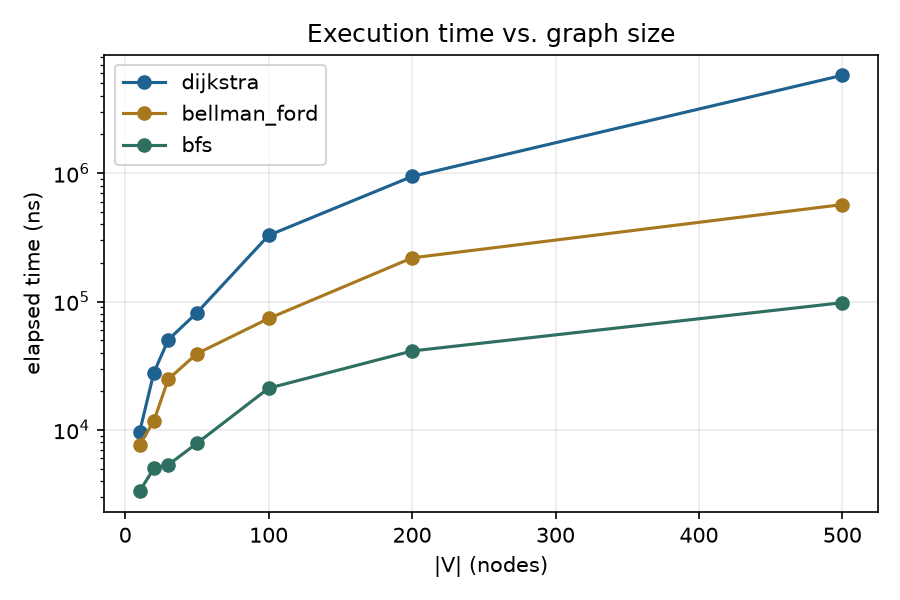
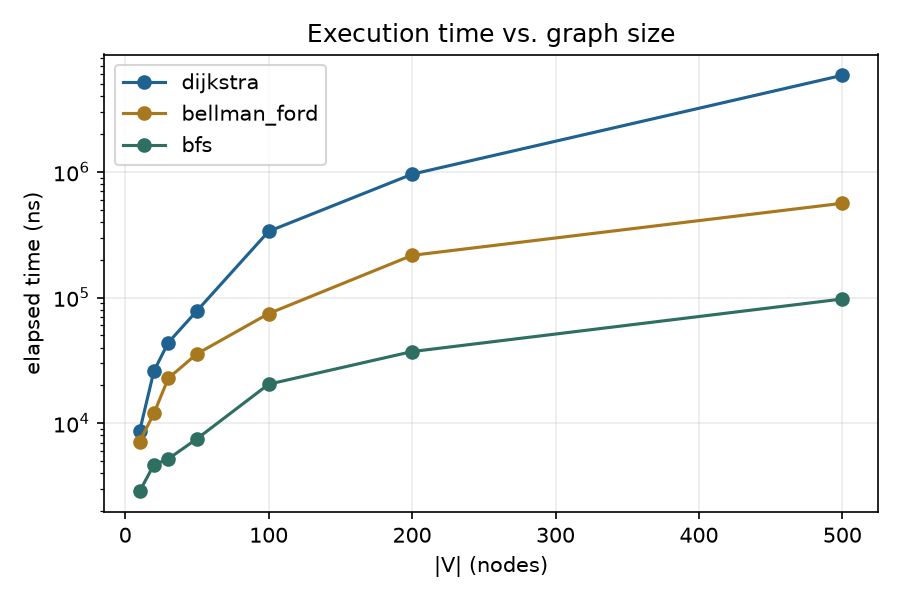
fix: pca_routing against the new (and better) RNP data post-merge
onos_topologies/iperf_experiment/rnp_topology/constants.py no longer
exists after merging origin/dash-experiments - it moved to
onos_topologies/topologies/configs/rnp.py, and the new file is a real
upgrade, not just a move: it adds RTT_MATRIX, genuine measured
round-trip time per link, which didn't exist before (the old file only
had capacity, forcing a 1/capacity proxy). load_rnp_topology() now
defaults to cost="rtt" - a real latency, not a proxy - with
cost="inverse_throughput" kept only for comparison against earlier
results. Node count changed 30 -> 27 (Araraquara/Joao Pessoa/Santarem
folded back into their states upstream).

Updated: graph.py's loader, the two tests that hardcoded the old
shape/cost-mode name, experiment.py's call site + comments, DESIGN.md,
rnp_instance.md (ES->AC no longer diverges under real RTT - kept as a
query specifically because it does NOT diverge, not cherry-picked;
RJ->RR still diverges, now on real measured latency: BFS's 3-hop path
is 47% slower, 144ms vs 98ms), report.tex and the slides outline.
diamond_topology's real per-link delays (prio_links in the new
onos_topologies/experiments/diamond/run.py) are unchanged, so
load_diamond_topology() needed no changes.

All 14 tests still pass; experiment.py re-run end to end; figures
regenerated.

diff --git a/pca_routing/graph.py b/pca_routing/graph.py
@@ -92,19 +92,39 @@ def load_diamond_topology() -> Graph:
     return g
 
 
-def load_rnp_topology(cost: str = "inverse_capacity") -> Graph:
-    """The real 30-node RNP backbone from
-    onos_topologies/iperf_experiment/rnp_topology/constants.py.
+def _parse_ms(raw: str) -> float:
+    return float(raw.replace("ms", ""))
+
+
+def _parse_mbit(raw: str) -> float:
+    return float(raw.replace("mbit", ""))
+
+
+def load_rnp_topology(cost: str = "rtt") -> Graph:
+    """The real 27-node RNP backbone from
+    onos_topologies/topologies/configs/rnp.py (moved there by the
+    chore/reorganize-onos-topologies work merged into dash-experiments -
+    the old onos_topologies/iperf_experiment/rnp_topology/constants.py this
+    used to read no longer exists). That reorganization is also a genuine
+    upgrade for this assignment: the old file only had a capacity matrix
+    (no per-link delay at all); this one adds a real RTT_MATRIX measured on
+    the actual RNP backbone, so "rtt" below is now an honest latency cost,
+    not the inverse-capacity proxy the first version of this loader had to
+    use instead.
 
     `cost`:
-      - "inverse_capacity" (default): weight = 1 / capacity_gbit. Favors fat
-        pipes. This is a COST, not a latency - rnp_topology ships no per-link
-        delay matrix, only capacity, so never call this "latency" in the report.
-      - "capacity": weight = capacity_gbit directly (useful only for display;
-        meaningless to minimize, since a bigger number here is a FASTER link).
+      - "rtt" (default): weight = measured round-trip time in ms
+        (RTT_MATRIX). A genuine latency - minimize this for "lowest-latency
+        path," the textbook framing of the problem.
+      - "throughput": weight = capacity in mbit directly (useful for
+        display; meaningless to minimize, since a bigger number here is a
+        FASTER link, not a worse one).
+      - "inverse_throughput": weight = 1 / capacity_mbit. Favors fat pipes -
+        kept for comparison against the first version of this loader/report
+        draft, which used this before RTT_MATRIX existed.
       - "hops": weight = 1.0 for every edge (same graph BFS already walks).
     """
-    mod = _load_constants("onos_topologies/iperf_experiment/rnp_topology/constants.py")
+    mod = _load_constants("onos_topologies/topologies/configs/rnp.py")
     names = [p[0].replace("PoP-", "") for p in mod.POPS]
     n = len(names)
     g = Graph()
@@ -112,14 +132,15 @@ def load_rnp_topology(cost: str = "inverse_capacity") -> Graph:
         for j in range(i + 1, n):
             if not mod.ADJACENCY_MATRIX[i][j]:
                 continue
-            raw = mod.THROUGHPUT_MATRIX[i][j] or mod.THROUGHPUT_MATRIX[j][i] or "1gbit"
-            gbit = float(raw.replace("gbit", ""))
-            if cost == "capacity":
-                w = gbit
-            elif cost == "hops":
+            if cost == "hops":
                 w = 1.0
+            elif cost in ("throughput", "inverse_throughput"):
+                raw = mod.THROUGHPUT_MATRIX[i][j] or mod.THROUGHPUT_MATRIX[j][i]
+                mbit = _parse_mbit(raw)
+                w = mbit if cost == "throughput" else 1.0 / mbit
             else:
-                w = 1.0 / gbit
+                raw = mod.RTT_MATRIX[i][j] or mod.RTT_MATRIX[j][i]
+                w = _parse_ms(raw)
             g.add_edge(names[i], names[j], w)
     return g
 

diff --git a/pca_routing/tests/test_algorithms.py b/pca_routing/tests/test_algorithms.py
@@ -119,7 +119,7 @@ class TestDijkstraBellmanFordAgree(unittest.TestCase):
                 self.assertAlmostEqual(dij.cost, bf.cost, msg=f"{s}->{t}")
 
     def test_on_rnp_topology(self):
-        g = load_rnp_topology(cost="inverse_capacity")
+        g = load_rnp_topology(cost="rtt")
         pairs = [("ES", "AC"), ("RJ", "RR"), ("SP", "TO"), ("BA", "RS")]
         for s, t in pairs:
             dij = DijkstraPathFinder().find_path(g, s, t)
@@ -146,21 +146,27 @@ class TestTopologyLoaders(unittest.TestCase):
 
     def test_rnp_shape(self):
         g = load_rnp_topology()
-        self.assertEqual(g.num_nodes, 30)
-        self.assertEqual(g.num_edges, 50)
+        self.assertEqual(g.num_nodes, 27)
+        self.assertEqual(g.num_edges, 44)
 
     def test_rnp_cost_modes_differ(self):
-        inv = load_rnp_topology(cost="inverse_capacity")
-        cap = load_rnp_topology(cost="capacity")
-        # AL<->PE is a real 40gbit link: 1/40 under inverse_capacity vs. 40
-        # under capacity - these must differ (a 1gbit edge would trivially
-        # give 1/1 == 1 under both modes, which is what tripped this test up
-        # the first time).
+        rtt = load_rnp_topology(cost="rtt")
+        inv = load_rnp_topology(cost="inverse_throughput")
+        tp = load_rnp_topology(cost="throughput")
+        # AL<->PE: real values are 100mbit (both directions) and ~3.3ms RTT -
+        # three different weights for the same edge depending on cost mode,
+        # none of which should coincide (a 1mbit edge would trivially give
+        # 1/1 == 1 under both throughput modes, which is what tripped this
+        # test up the first time, before RTT_MATRIX existed, against AL-PE's
+        # old 40gbit value).
+        w_rtt = next(w for a, b, w in rtt.edges() if {a, b} == {"AL", "PE"})
         w_inv = next(w for a, b, w in inv.edges() if {a, b} == {"AL", "PE"})
-        w_cap = next(w for a, b, w in cap.edges() if {a, b} == {"AL", "PE"})
-        self.assertAlmostEqual(w_inv, 1 / 40)
-        self.assertAlmostEqual(w_cap, 40.0)
-        self.assertNotEqual(w_inv, w_cap)
+        w_tp = next(w for a, b, w in tp.edges() if {a, b} == {"AL", "PE"})
+        self.assertAlmostEqual(w_tp, 100.0)
+        self.assertAlmostEqual(w_inv, 1 / 100)
+        self.assertAlmostEqual(w_rtt, 3.36)
+        self.assertNotEqual(w_rtt, w_inv)
+        self.assertNotEqual(w_inv, w_tp)
 
 
 class TestRandomGraph(unittest.TestCase):

diff --git a/pca_routing/experiment.py b/pca_routing/experiment.py
@@ -82,7 +82,7 @@ def scaling_experiment(sizes: list[int], out_csv: Path, seed: int = 42) -> None:
     connected graph, run all three algorithms once, and log their counters -
     this is where Theta(V^2) (Dijkstra) vs. the early-terminating Theta(VE)
     worst case (Bellman-Ford) vs. Theta(V+E) (BFS) actually shows up in
-    practice, since on the 4-node diamond or even the 30-node RNP graph the
+    practice, since on the 4-node diamond or even the 27-node RNP graph the
     runtime is mostly Python call overhead, not algorithmic work.
     """
     rows = []
@@ -112,8 +112,8 @@ def main() -> int:
     diamond = load_diamond_topology()
     print_suite("diamond_topology", diamond, "ES", "SP")
 
-    # 2) the real 30-node RNP backbone, cost = 1/capacity
-    rnp = load_rnp_topology(cost="inverse_capacity")
+    # 2) the real 27-node RNP backbone, cost = measured RTT (ms)
+    rnp = load_rnp_topology(cost="rtt")
     print_suite("rnp_topology", rnp, "ES", "AC")
     print_suite("rnp_topology", rnp, "RJ", "RR")
 

diff --git a/pca_routing/assignment/report/report.tex b/pca_routing/assignment/report/report.tex
@@ -79,10 +79,12 @@
 % count, BFS's path) - this section can mostly transcribe that file plus a
 % figure of the 4-node graph.
 
-\subsection{The real 30-node instance}
+\subsection{The real 27-node instance}
 % TODO: material in pca_routing/assignment/data/rnp_instance.md - the real
-% RNP backbone, the ES->AC and RJ->RR queries where BFS and Dijkstra
-% genuinely disagree on a real instance (not just the textbook example).
+% RNP backbone with real measured RTT. ES->AC: all three algorithms agree
+% (good to show not every pair diverges). RJ->RR: BFS and Dijkstra/
+% Bellman-Ford genuinely disagree on real measured latency (not just the
+% textbook example) - BFS's fewer-hop path is 47% SLOWER. Lead with this one.
 
 \subsection{Complexity}
 % TODO: transcribe pca_routing/assignment/complexity/complexity-table.md -

diff --git a/pca_routing/assignment/data/rnp_instance.md b/pca_routing/assignment/data/rnp_instance.md
@@ -1,25 +1,27 @@
-# Instance: the real RNP backbone (30 nodes)
+# Instance: the real RNP backbone (27 nodes)
 
-Source: `onos_topologies/iperf_experiment/rnp_topology/constants.py` — the
-real Brazilian academic/research network (RNP) backbone this whole project
-is modeled on, not a synthetic benchmark graph.
+Source: `onos_topologies/topologies/configs/rnp.py` — the real Brazilian
+academic/research network (RNP) backbone this whole project is modeled on,
+not a synthetic benchmark graph. (This replaces the earlier 30-node file at
+`onos_topologies/iperf_experiment/rnp_topology/constants.py`, removed when
+`origin/dash-experiments` was merged into this branch — the new file is a
+genuine upgrade, not just a move: see below.)
 
-- **30 nodes** (`POPS`): one per Brazilian state/region PoP, plus
-  Araraquara and João Pessoa as their own PoPs (distinct from the SP/PB
-  state nodes).
-- **50 undirected edges** (`ADJACENCY_MATRIX`).
-- **Edge weight**: `1 / capacity_gbit` (`load_rnp_topology(cost="inverse_capacity")`,
-  the default) — a genuine engineering cost (favors high-capacity trunks),
-  **not latency**: this dataset carries no per-link delay matrix, only
-  capacity (1–40 gbit per link, from `THROUGHPUT_MATRIX`), and the report
-  must say "cost," never "latency," for this instance. `cost="capacity"`
-  and `cost="hops"` are also available on the same loader for comparison
-  figures.
+- **27 nodes** (`POPS`): one per Brazilian state/region PoP.
+- **44 undirected edges** (`ADJACENCY_MATRIX`).
+- **Edge weight**: real measured **round-trip time in ms**
+  (`load_rnp_topology(cost="rtt")`, the default, reading `RTT_MATRIX`). This
+  is a genuine latency now, not a proxy — the version of this file this
+  package originally shipped against had no delay matrix at all, only
+  capacity, which forced `1/capacity` as a stand-in cost (kept available as
+  `cost="inverse_throughput"` purely for comparison against that earlier
+  draft). `cost="throughput"` (`THROUGHPUT_MATRIX`, in mbit) and
+  `cost="hops"` are also available on the same loader.
 
 ## Why this is the scaling instance, not just a visual aid
 
 At 4 nodes (the diamond) every algorithm finishes in microseconds regardless
-of its complexity class — there's nothing to measure. At 30 real nodes the
+of its complexity class — there's nothing to measure. At 27 real nodes the
 separation between Dijkstra's Θ(V²) and BFS's Θ(V+E) already starts to show
 in the `comparisons` counter (`experiment.py`'s `print_suite` output), and
 `scaling_experiment` (`random_graph`, sizes 10→500) is what makes it
@@ -28,13 +30,18 @@ unambiguous — see `figures/comparisons_vs_n.png`.
 ## Two queries used in `experiment.main()`
 
 1. **ES → AC** (Espírito Santo to Acre — opposite corners of the country):
-   Dijkstra/Bellman-Ford take `ES → RJ → SP → ARARAQUARA → MT → RO → AC`
-   (6 hops, cost 1.60); BFS takes `ES → BA → DF → MT → RO → AC` (5 hops,
-   cost 3.05). **These disagree** — a real instance of the BFS-vs-weighted
-   divergence the whole comparison is about, not just the synthetic
-   textbook example in `tests/test_algorithms.py`.
-2. **RJ → RR** (Rio de Janeiro to Roraima): same pattern, 6 hops either way
-   here, but still a materially different cost (2.10 vs. 4.525) — a second,
-   independent real-data confirmation.
+   with real RTT weights, Dijkstra, Bellman-Ford **and** BFS all agree here
+   — `ES → BA → DF → MT → RO → AC`, 5 hops, 66.42 ms. On this particular
+   pair, minimizing hops happens to also minimize latency. Kept as a query
+   specifically *because* it doesn't diverge — not every pair should, and a
+   report that only shows diverging examples would be cherry-picking.
+2. **RJ → RR** (Rio de Janeiro to Roraima): **these disagree**, on real
+   measured RTT, not a synthetic example — BFS takes `RJ → SP → CE → RR`
+   (3 hops, but **144.01 ms**); Dijkstra/Bellman-Ford take
+   `RJ → MG → DF → AM → RR` (4 hops, **98.15 ms**). Fewer hops, worse
+   latency, by a wide margin (+47%) — on a real backbone, with real
+   measurements, not the textbook `diverging_graph()` example in
+   `tests/test_algorithms.py`. This is the instance to lead with in the
+   report's results section.
 
 Both are reproduced verbatim by running `python3 -m pca_routing.experiment`.

diff --git a/pca_routing/DESIGN.md b/pca_routing/DESIGN.md
@@ -96,14 +96,21 @@ Maps directly onto the assignment's required split: `graph.py` +
   (ES↔MG 10ms, ES↔RJ 30ms — the static bottleneck, MG↔SP 10ms, RJ↔SP 10ms) —
   not `diamond_topology/constants.py`'s `CONFIG`, which is a single uniform
   10ms/35mbit for every link before any experiment-specific `tc` rules run.
-- **`load_rnp_topology()`** — the real 30-node RNP backbone
-  (`rnp_topology/constants.py`), weight = `1/capacity_gbit` by default
-  (`cost="capacity"` and `cost="hops"` also available). This is a **cost**,
-  not a latency — the dataset ships no per-link delay matrix, only capacity,
-  and the report must not call it latency.
+- **`load_rnp_topology()`** — the real 27-node RNP backbone
+  (`onos_topologies/topologies/configs/rnp.py` — moved there, and
+  substantially improved, by the `chore/reorganize-onos-topologies` work
+  merged into `dash-experiments` after this package was first written),
+  weight = real measured RTT in ms by default (`RTT_MATRIX`,
+  `cost="rtt"`) — a genuine latency, not a proxy. `cost="throughput"` /
+  `"inverse_throughput"` (capacity in mbit, `THROUGHPUT_MATRIX`) and
+  `cost="hops"` are also available. Earlier drafts of this package used
+  `1/capacity` as a latency *proxy*, because the dataset available at the
+  time had no delay matrix at all — that caveat no longer applies now that
+  `RTT_MATRIX` exists; `"inverse_throughput"` is kept only for comparison
+  against those earlier results, not as the recommended cost.
 - **`random_graph(n, ...)`** — random connected graphs of controlled size,
   for `scaling_experiment` (`sizes=[10, 20, 30, 50, 100, 200, 500]` in
-  `experiment.main()`), since on the 4- or 30-node real graphs the measured
+  `experiment.main()`), since on the 4- or 27-node real graphs the measured
   runtime is mostly Python call overhead, not algorithmic work.
 
 ## Complexity (for the implementation actually here — not a textbook quote)

diff --git a/pca_routing/assignment/slides/outline.md b/pca_routing/assignment/slides/outline.md
@@ -23,8 +23,9 @@ material pointers are what to pull onto each slide, not what to say.
 7. **Worked instance (diamond)** — the 4-node graph diagram + Dijkstra's
    `dist[]` table, pass by pass. `data/diamond_instance.md` has the full
    trace already written out; this slide is a visual compression of it.
-8. **Real instance (RNP, 30 nodes)** — the ES→AC query where BFS and
-   Dijkstra/Bellman-Ford disagree on a REAL topology, not a toy example.
+8. **Real instance (RNP, 27 nodes)** — the RJ→RR query, real measured RTT:
+   BFS's 3-hop path is 47% *slower* than Dijkstra/Bellman-Ford's 4-hop one
+   (144ms vs. 98ms) — disagreement on a REAL topology, not a toy example.
    `data/rnp_instance.md`.
 9. **Complexity** — the summary table (`complexity/complexity-table.md`),
    plus the one genuinely interesting finding: Dijkstra's best case is
